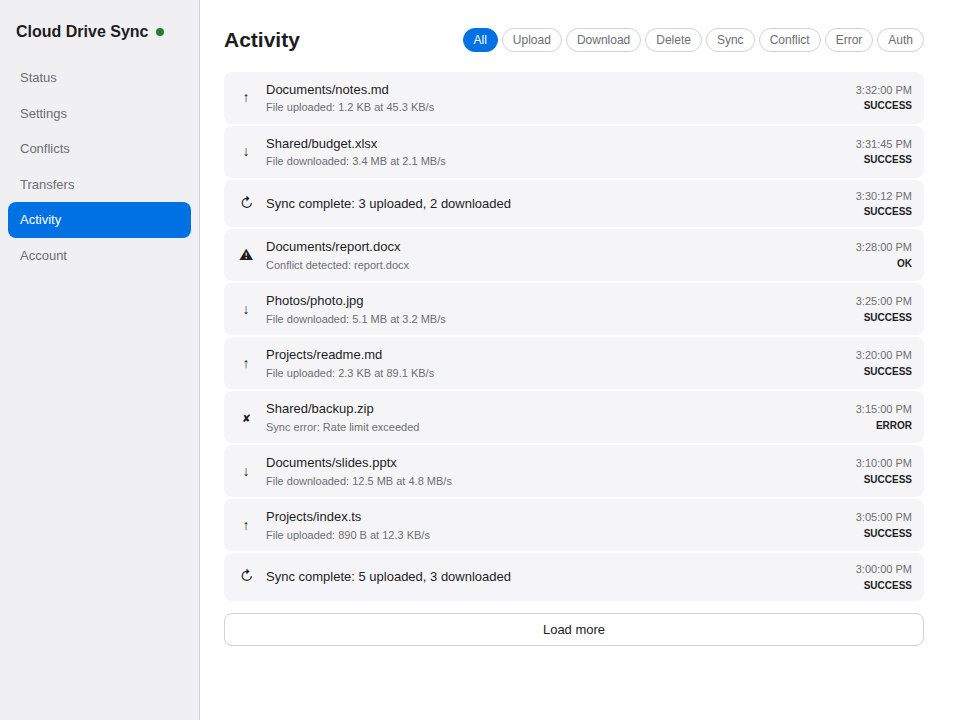
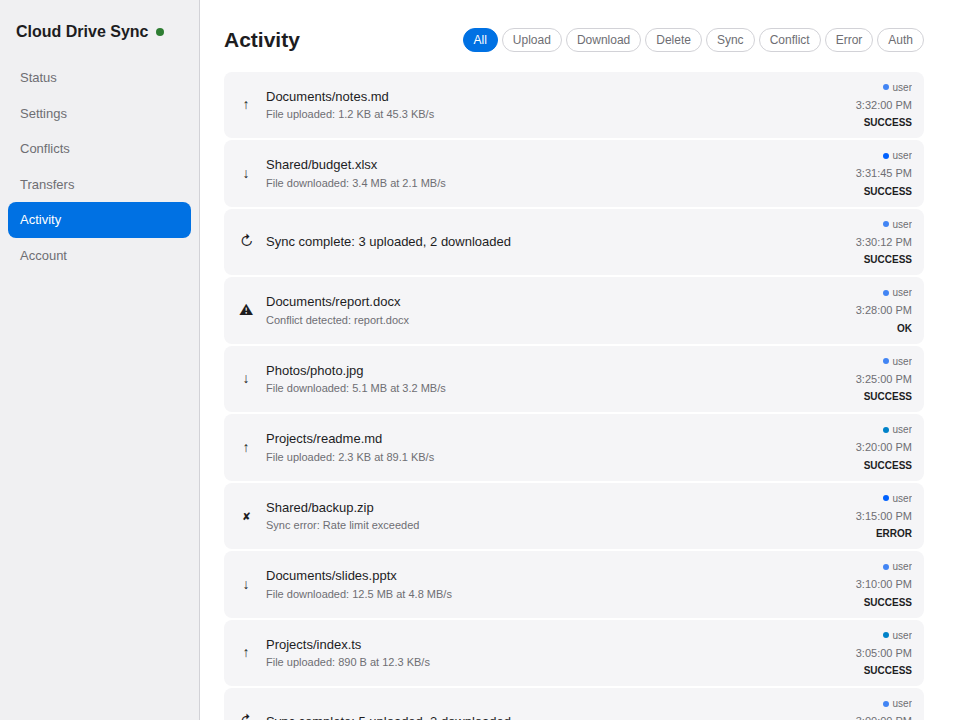
Add account/provider indicator to activity log entries
Each activity entry now shows a colored provider dot and account username
on the right side, so you can tell at a glance which cloud account each
operation belongs to. Uses pair_id from daemon to resolve the account.

diff --git a/ui/src/components/ActivityLog.tsx b/ui/src/components/ActivityLog.tsx
@@ -1,5 +1,6 @@
-import { useState } from "react";
-import { useActivityLog } from "../lib/hooks";
+import { useState, useMemo } from "react";
+import { useActivityLog, useSyncPairs } from "../lib/hooks";
+import { providerColor, providerLabel } from "./AccountManager";
 import type { LogEntry } from "../lib/types";
 
 const EVENT_ICONS: Record<string, string> = {
@@ -16,7 +17,23 @@ type FilterType = "all" | LogEntry["event_type"];
 
 export function ActivityLog() {
   const { entries, loading, loadMore } = useActivityLog(50);
+  const { pairs } = useSyncPairs();
   const [filter, setFilter] = useState<FilterType>("all");
+
+  // Build a lookup: pair_id -> { account, provider }
+  const pairAccountMap = useMemo(() => {
+    const map: Record<string, { email: string; provider: string }> = {};
+    for (let i = 0; i < pairs.length; i++) {
+      const pair = pairs[i];
+      const pairId = `pair_${i}`;
+      const provider = pair.provider || "gdrive";
+      const email = pair.account_id || "";
+      map[pairId] = { email, provider };
+      // Also map by the pair's string id
+      map[pair.id] = { email, provider };
+    }
+    return map;
+  }, [pairs]);
 
   const filtered =
     filter === "all"
@@ -43,28 +60,44 @@ export function ActivityLog() {
       </div>
 
       <div className="log-list">
-        {filtered.map((entry) => (
-          <div
-            key={entry.id}
-            className={`log-item log-${entry.event_type}`}
-          >
-            <span className="log-icon">
-              {EVENT_ICONS[entry.event_type] || "\u2022"}
-            </span>
-            <div className="log-content">
-              <span className="log-path">{entry.path || entry.details}</span>
-              {entry.path && <span className="log-details">{entry.details}</span>}
-            </div>
-            <div className="log-meta">
-              <span className="log-time">
-                {new Date(entry.timestamp).toLocaleTimeString()}
+        {filtered.map((entry) => {
+          const acctInfo = entry.pair_id ? pairAccountMap[entry.pair_id] : null;
+          const color = acctInfo ? providerColor(acctInfo.provider) : undefined;
+          const label = acctInfo ? providerLabel(acctInfo.provider) : undefined;
+          const isSystem = entry.pair_id === "_system";
+
+          return (
+            <div
+              key={entry.id}
+              className={`log-item log-${entry.event_type}`}
+            >
+              <span className="log-icon">
+                {EVENT_ICONS[entry.event_type] || "\u2022"}
               </span>
-              <span className={`log-status log-status-${entry.status}`}>
-                {entry.status}
-              </span>
+              <div className="log-content">
+                <span className="log-path">{entry.path || entry.details}</span>
+                {entry.path && <span className="log-details">{entry.details}</span>}
+              </div>
+              <div className="log-meta">
+                {acctInfo && !isSystem && (
+                  <span className="log-account" title={`${label} — ${acctInfo.email}`}>
+                    <span
+                      className="log-provider-dot"
+                      style={{ background: color }}
+                    />
+                    {acctInfo.email.split("@")[0]}
+                  </span>
+                )}
+                <span className="log-time">
+                  {new Date(entry.timestamp).toLocaleTimeString()}
+                </span>
+                <span className={`log-status log-status-${entry.status}`}>
+                  {entry.status}
+                </span>
+              </div>
             </div>
-          </div>
-        ))}
+          );
+        })}
 
         {filtered.length === 0 && (
           <p className="empty-message">No activity to show.</p>

diff --git a/ui/src/index.css b/ui/src/index.css
@@ -1008,6 +1008,27 @@ body {
   flex-direction: column;
   align-items: flex-end;
   flex-shrink: 0;
+  gap: 2px;
+}
+
+.log-account {
+  display: flex;
+  align-items: center;
+  gap: 4px;
+  font-size: 10px;
+  color: var(--text-secondary);
+  font-weight: 500;
+  max-width: 120px;
+  overflow: hidden;
+  text-overflow: ellipsis;
+  white-space: nowrap;
+}
+
+.log-provider-dot {
+  width: 6px;
+  height: 6px;
+  border-radius: 50%;
+  flex-shrink: 0;
 }
 
 .log-time {

diff --git a/ui/src/lib/types.ts b/ui/src/lib/types.ts
@@ -60,6 +60,7 @@ export interface LogEntry {
   path: string;
   details: string;
   status: string;
+  pair_id?: string;
 }
 
 export type ConflictResolution = "keep_local" | "keep_remote" | "keep_both";
